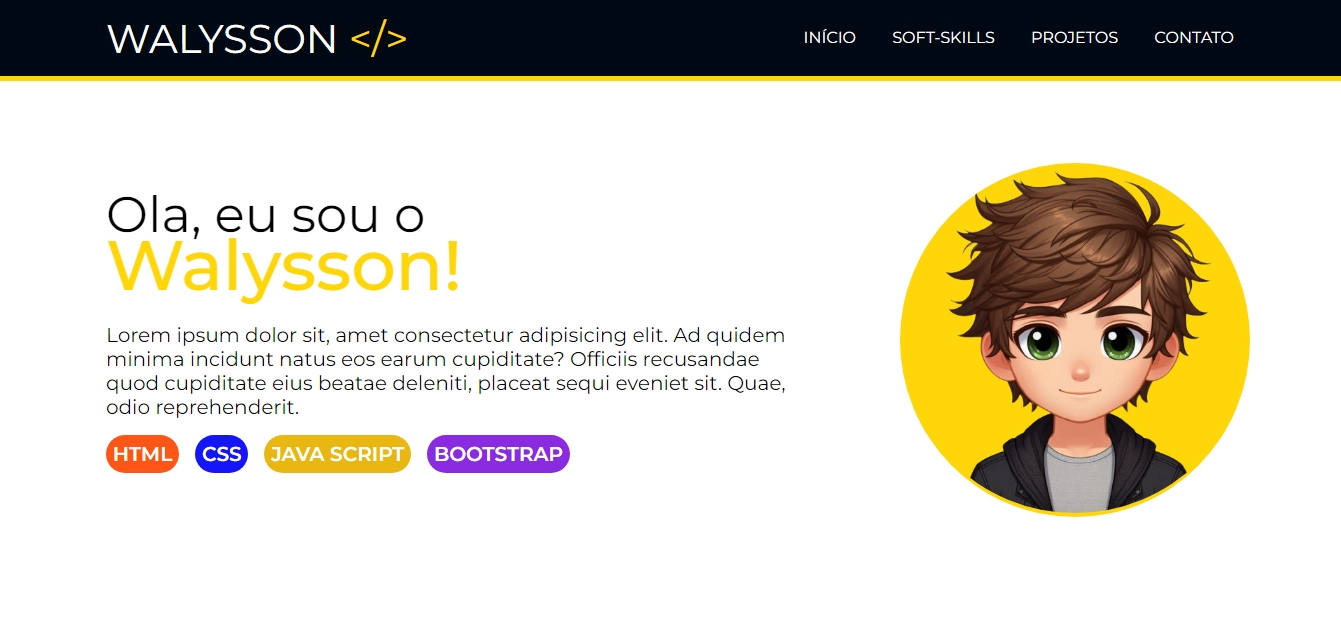
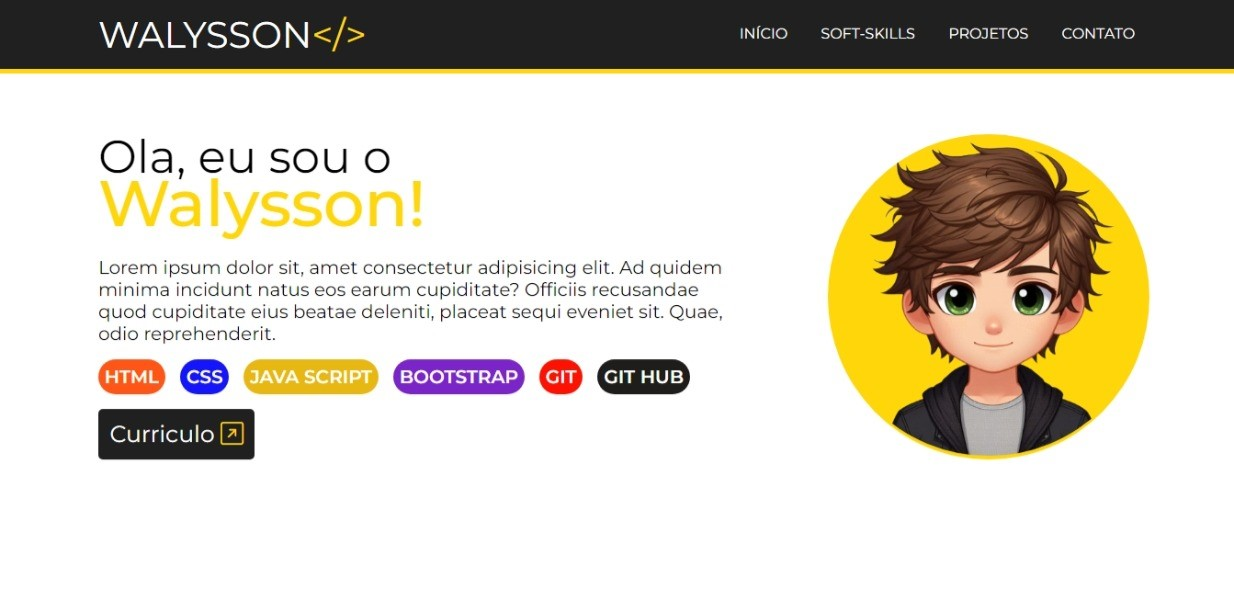
update imagens projetos, tags e botão projetos

diff --git a/style.css b/style.css
@@ -88,6 +88,10 @@ html {
     background-color: rgb(255, 81, 81);
 }
 
+.tags #subform {
+    background-color: rgb(10, 10, 148);
+}
+
 /* cabeçalho */
 header {
     position: fixed;
@@ -341,7 +345,12 @@ header .menu nav a:hover::after {
     justify-content: space-between;
     border: none;
     font-weight: 500;
-    transition: .2s;
+    transition: all .2s ease-in;
+}
+
+#projetos .btn-projetos button:hover {
+    outline: 1px solid black;
+    transform: scale(1.1);
 }
 
 #projetos .btn-projetos i {
@@ -350,10 +359,6 @@ header .menu nav a:hover::after {
 
 #projetos .btn-projetos a {
     text-decoration: none;
-}
-
-#projetos .btn-projetos button:hover {
-    outline: 2px solid #202020;
 }
 
 /* contato */
@@ -636,9 +641,10 @@ footer {
     }
 
     /* hero */
-    #hero{
+    #hero {
         margin-top: 1em;
     }
+
     #hero .interface {
         flex-direction: column-reverse;
         justify-content: center;
@@ -769,16 +775,19 @@ footer {
     }
 }
 
-@media (max-width: 1020px) and (orientation: landscape){
+@media (max-width: 1020px) and (orientation: landscape) {
+
     /* hero */
-    #hero{
+    #hero {
         margin-top: 4.5em;
         height: auto;
     }
 }
-@media (max-height: 600px){
+
+@media (max-height: 600px) {
+
     /* hero */
-    #hero{
+    #hero {
         margin-top: 4.5em;
         height: auto;
         margin-bottom: 1em;

diff --git a/index.html b/index.html
@@ -100,7 +100,7 @@
             <h5 class="titulo">CONHEÇA MEUS <span> PROJETOS!</span></h5>
             <div class="container">
                 <article>
-                    <img src="images/projeto1.jpeg" alt="Primeiro projeto">
+                    <img src="images/projeto 1.jpeg" alt="Primeiro projeto">
                     <div class="txt-projeto">
                         <h5>Agência de Viagens</h5>
                         <p>
@@ -136,6 +136,8 @@
                             <p id="css">CSS</p>
                             <p id="js">JAVA SCRIPT</p>
                             <p id="github">GIT HUB</p>
+                            <p id="subform">SUBMIT FORM</p>
+                            <p id="git">GIT</p>
                         </div>
                         <div class="btn-projetos">
                             <a href="https://ocrazyoff.github.io/modelo-portifolio/" target="_blank"><button><i
@@ -145,7 +147,7 @@
                                     Hub</button></a>
                         </div>
                     </div>
-                    <img src="images/projeto2.jpeg" alt="Primeiro projeto">
+                    <img src="images/projeto 2.jpeg" alt="Primeiro projeto">
                 </article>
                 <article>
                     <img src="images/projeto 3.jpeg" alt="Primeiro projeto">
